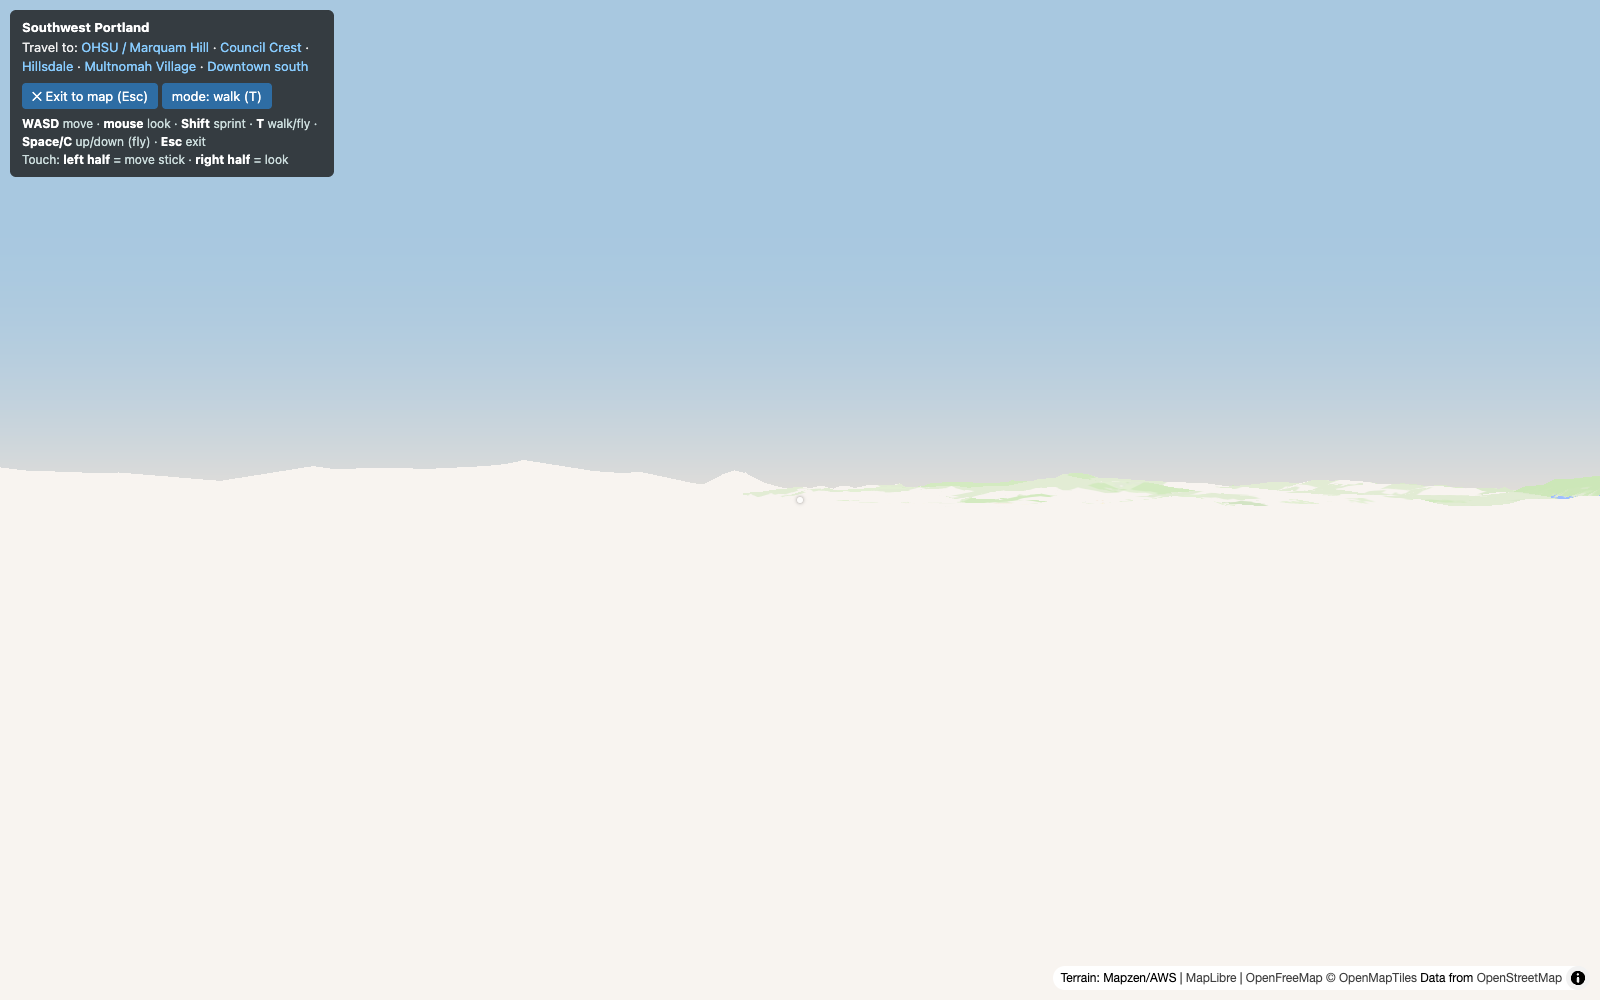
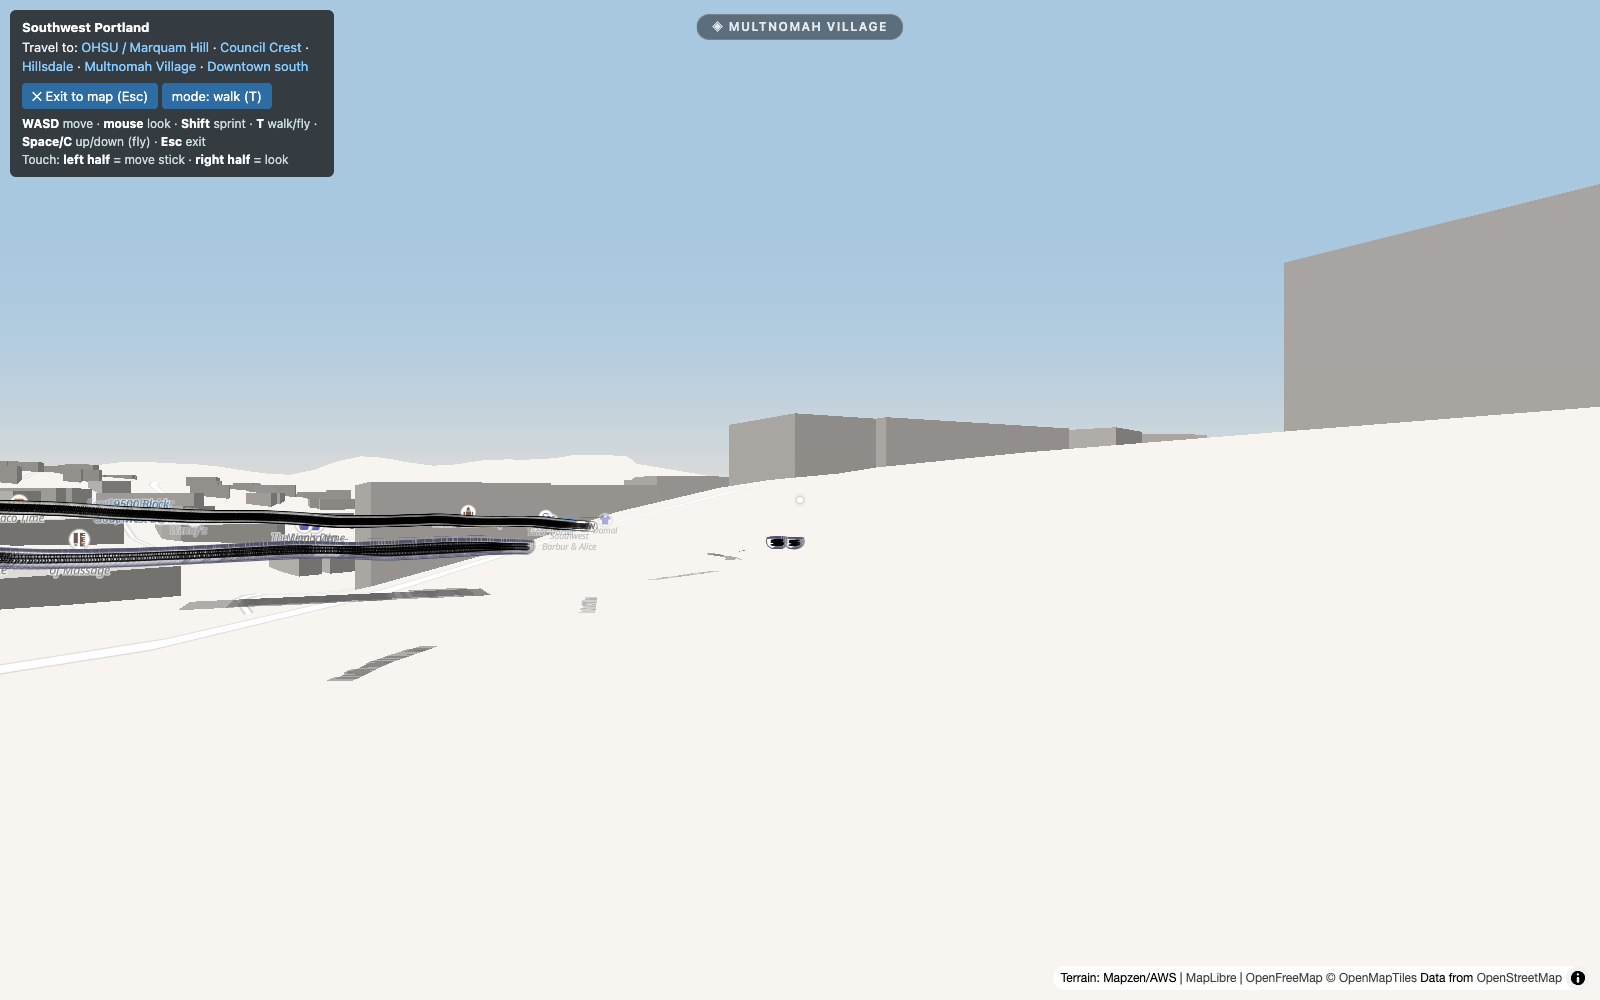
Game HUD: neighborhood zone toast + persistent chip
Pop a game-style 'Now entering Multnomah Village' toast and a persistent
top-center zone chip as the player crosses SW Portland neighborhoods
(11 hand-placed centroids, nearest-wins). Wired into spawn, fast-travel,
and per-frame border crossings. Verified headless (village->Multnomah
Village, OHSU->Marquam Hill render crisp; eye heights unchanged).

diff --git a/index.html b/index.html
@@ -31,11 +31,43 @@
       background: rgba(255,255,255,.7); box-shadow: 0 0 4px rgba(0,0,0,.6);
       pointer-events: none;
     }
+    /* persistent zone chip (current neighborhood) + transient arrival toast */
+    #zone-chip {
+      display: none; position: absolute; top: 14px; left: 50%; transform: translateX(-50%);
+      z-index: 3; padding: 5px 15px; border-radius: 14px;
+      background: rgba(15,18,22,.5); color: #e4ecf2;
+      font: 600 12px/1.2 -apple-system, system-ui, sans-serif; letter-spacing: .12em;
+      text-transform: uppercase; border: 1px solid rgba(255,255,255,.14);
+      -webkit-backdrop-filter: blur(7px); backdrop-filter: blur(7px);
+      pointer-events: none; white-space: nowrap;
+    }
+    #zone-toast {
+      display: none; position: absolute; top: 33%; left: 50%; transform: translateX(-50%);
+      z-index: 3; text-align: center; pointer-events: none;
+      text-shadow: 0 2px 16px rgba(0,0,0,.75);
+    }
+    #zone-toast .lead {
+      color: #b6c0c8; font: 600 12px/1 -apple-system, system-ui, sans-serif;
+      letter-spacing: .42em; text-transform: uppercase;
+    }
+    #zone-toast .name {
+      color: #fff; font: 200 46px/1.1 -apple-system, system-ui, sans-serif;
+      letter-spacing: .01em; margin-top: 10px;
+    }
+    #zone-toast.show { animation: zonepop 3.6s ease forwards; }
+    @keyframes zonepop {
+      0%   { opacity: 0; transform: translateX(-50%) translateY(12px); }
+      12%  { opacity: 1; transform: translateX(-50%) translateY(0); }
+      80%  { opacity: 1; transform: translateX(-50%) translateY(0); }
+      100% { opacity: 0; transform: translateX(-50%) translateY(-7px); }
+    }
   </style>
 </head>
 <body>
 <div id="map"></div>
 <div id="crosshair"></div>
+<div id="zone-chip"></div>
+<div id="zone-toast"><div class="lead">Now entering</div><div class="name"></div></div>
 <div id="hud">
   <b>Southwest Portland</b><br/>
   <span id="orbit-help">Map view — drag to pan · right-drag to tilt · scroll to zoom.<br/></span>
@@ -138,6 +170,7 @@
         // Fast-travel without leaving first person: drop onto the new spot.
         fp.lng = lng; fp.lat = lat; fp.heading = bearing; fp.look = -3;
         fp.alt = groundAt(lng, lat) + fp.eye;
+        updateZone(true);
       } else {
         map.flyTo({ center: [lng, lat], zoom, pitch, bearing, duration: 2500 });
       }
@@ -148,6 +181,7 @@
   const fp = {
     on: false, mode: 'walk',
     lng: 0, lat: 0, alt: 0,
+    region: null,      // current neighborhood name (for the zone toast/chip)
     heading: 0,        // compass deg, 0 = north
     look: 0,           // vertical look deg, 0 = horizon, + = up
     eye: 1.8,          // eye height above ground (m)
@@ -164,6 +198,54 @@
   function groundAt(lng, lat) {
     const e = map.queryTerrainElevation && map.queryTerrainElevation([lng, lat]);
     return e == null ? 0 : e;
+  }
+
+  // ---- SW Portland neighborhoods (hand-placed centroids) ----
+  // Nearest-centroid wins; beyond the cutoff you're just "Southwest Portland".
+  const NEIGHBORHOODS = [
+    { name: 'Council Crest',        lng: -122.7076, lat: 45.4983 },
+    { name: 'Marquam Hill',         lng: -122.6975, lat: 45.4995 },  // OHSU
+    { name: 'Marquam Nature Park',  lng: -122.6935, lat: 45.4880 },
+    { name: 'Healy Heights',        lng: -122.7165, lat: 45.4890 },
+    { name: 'Hillside',             lng: -122.7005, lat: 45.5120 },
+    { name: 'Hillsdale',            lng: -122.7095, lat: 45.4737 },
+    { name: 'Bridlemile',           lng: -122.7330, lat: 45.4900 },
+    { name: 'Homestead',            lng: -122.6885, lat: 45.4955 },
+    { name: 'Burlingame',           lng: -122.6960, lat: 45.4675 },
+    { name: 'Multnomah Village',    lng: -122.7126, lat: 45.4530 },
+    { name: 'South Burlingame',     lng: -122.6885, lat: 45.4590 },
+  ];
+  function regionAt(lng, lat) {
+    let best = null, bd = Infinity;
+    const cosL = Math.cos(lat * Math.PI / 180);
+    for (const n of NEIGHBORHOODS) {
+      const dx = (lng - n.lng) * cosL, dy = lat - n.lat;
+      const d = dx * dx + dy * dy;
+      if (d < bd) { bd = d; best = n; }
+    }
+    return Math.sqrt(bd) < 0.020 ? best.name : 'Southwest Portland';  // ~2.2 km cutoff
+  }
+
+  const zoneChip = document.getElementById('zone-chip');
+  const zoneToast = document.getElementById('zone-toast');
+  zoneToast.addEventListener('animationend', () => {
+    zoneToast.classList.remove('show'); zoneToast.style.display = 'none';
+  });
+  // Re-evaluate the current neighborhood; pop a toast + update the chip on change.
+  function updateZone(force) {
+    const z = regionAt(fp.lng, fp.lat);
+    if (z === fp.region && !force) return;
+    fp.region = z;
+    zoneChip.textContent = '◈ ' + z;
+    zoneChip.style.display = fp.on ? 'block' : 'none';
+    if (fp.on) showToast(z);
+  }
+  function showToast(name) {
+    zoneToast.querySelector('.name').textContent = name;
+    zoneToast.style.display = 'block';
+    zoneToast.classList.remove('show');
+    void zoneToast.offsetWidth;        // restart the animation
+    zoneToast.classList.add('show');
   }
 
   function fpEnter(lng, lat, heading, look, mode) {
@@ -188,6 +270,7 @@
     document.getElementById('fp-help').style.display = 'block';
     document.getElementById('orbit-help').style.display = 'none';
     document.getElementById('crosshair').style.display = 'block';
+    fp.region = null; updateZone(true);    // announce where you spawned
     requestAnimationFrame(fpFrame);
   }
 
@@ -202,6 +285,7 @@
     document.getElementById('fp-help').style.display = 'none';
     document.getElementById('orbit-help').style.display = '';
     document.getElementById('crosshair').style.display = 'none';
+    zoneChip.style.display = 'none';
     // settle into a sane orbit view of where you ended up
     map.jumpTo({ center: [fp.lng, fp.lat], zoom: 16.5, pitch: 60, bearing: fp.heading });
   }
@@ -260,6 +344,7 @@
       [fp.lng, fp.lat], fp.alt, [tLng, tLat], fp.alt + Math.sin(lookRad) * D
     );
     map.jumpTo(camOpts);
+    updateZone(false);   // pop a toast when we cross into a new neighborhood
     requestAnimationFrame(fpFrame);
   }
 
@@ -336,6 +421,7 @@
   window.__fpEnter = fpEnter;
   window.__fpExit = fpExit;
   window.__fp = fp;
+  window.__forceZone = () => updateZone(true);   // re-trigger toast/chip (for screenshots)
 </script>
 </body>
 </html>

diff --git a/test/shoot-fp.js b/test/shoot-fp.js
@@ -43,6 +43,12 @@ const VIEWS = [
     }));
     console.log(file, JSON.stringify(state));
     await page.screenshot({ path: OUT + file });
+
+    // Re-pop the zone toast on this fully-rendered scene and grab it (the toast
+    // fades after ~3.6s, so it's gone by the normal screenshot above).
+    await page.evaluate(() => window.__forceZone && window.__forceZone());
+    await new Promise(r => setTimeout(r, 600));
+    await page.screenshot({ path: OUT + file.replace('.png', '-toast.png') });
   }
   await browser.close();
 })().catch(e => { console.error(e.message); process.exit(1); });

diff --git a/NOTES.md b/NOTES.md
@@ -20,6 +20,18 @@ on crossing into Hillsdale / Multnomah Village / Marquam Nature Park, compass, s
 labels/POI fade at street level. The world should read as PLACE, not as map.
 
 ## Iteration log
+- **#3 (15:36–15:43)** Neighborhood zone HUD — the "this is a game" win. Hand-placed
+  11 SW Portland centroids (Council Crest, Marquam Hill/OHSU, Marquam Nature Park, Healy
+  Heights, Hillside, Hillsdale, Bridlemile, Homestead, Burlingame, Multnomah Village,
+  South Burlingame). `regionAt()` = nearest-centroid-wins with a ~2.2 km cutoff (falls
+  back to "Southwest Portland"). Two HUD pieces: a persistent top-center **zone chip**
+  ("◈ MULTNOMAH VILLAGE") and a big **arrival toast** ("Now entering Multnomah Village")
+  that pops + fades over 3.6 s on every zone crossing. Wired into fpEnter (spawn announce),
+  fast-travel clicks, and per-frame in fpFrame (pops when you walk across a border).
+  Gotcha: the toast fades before the harness's post-tile screenshot, so added a
+  `window.__forceZone()` hook + a `-toast.png` capture per view (re-pops the toast on the
+  fully-rendered scene). Verified: village→"Multnomah Village", OHSU→"Marquam Hill" both
+  render crisp; eye heights unchanged (village 215.14 / ground 213.34).
 - **#2 (15:26–15:35)** Boot straight into first person. Page now auto-enters FP on
   the Council Crest summit (Portland's high point) the moment the terrain DEM reports
   real elevation there (poll groundAt > 50 m, ~330 m summit); orbit/map is demoted to
@@ -45,24 +57,23 @@ labels/POI fade at street level. The world should read as PLACE, not as map.
   FOV 60° in FP, 36.87° (default) in orbit. Test hooks: `__fpEnter/__fpExit/__fp`.
 
 ## Next ideas (game-feel priority order)
-1. **Neighborhood toast HUD** — detect when the player crosses into Hillsdale /
-   Multnomah Village / Marquam Nature Park / Council Crest / OHSU etc. (point-in-polygon
-   against a small hand-drawn bbox/centroid list, or OSM place labels) and pop a
-   game-style "Entering Multnomah Village" toast. Cheapest big "this is a game" win.
-2. **Game-feel movement** — gravity + jump (Space in walk), acceleration/momentum
+1. **Atmosphere** — real sun position + sky gradient + distance fog tuned to SW Portland's
+   forested hills; draw-distance haze so far ridges recede. Sky is a flat pale wash now —
+   the single most "map, not game" thing left in the renders. High screenshot payoff.
+2. **Labels fade at street level** — POI/road/place symbol text should fade out as the FP
+   camera drops to eye level (opacity ramp on pitch/zoom) so the world reads as place, not
+   map. Bonus: kills the `_mult` symbol-render spam. (Note: zone chip now carries the
+   "where am I" load, so map labels are safe to drop in FP.)
+3. **Game-feel movement** — gravity + jump (Space in walk), acceleration/momentum
    instead of instant velocity, subtle head bob while walking. Currently movement is
    instant-on/off and dead-flat — reads robotic.
-3. **Labels fade at street level** — POI/road/place symbol text should fade out as the
-   FP camera drops to eye level (opacity ramp on zoom/pitch) so the world reads as place,
-   not map. Bonus: kills the `_mult` symbol-render spam.
-4. **Atmosphere** — real sun position + sky gradient + distance fog tuned to SW Portland's
-   forested hills; draw-distance haze so far ridges recede. Sky is currently a flat pale wash.
-5. **Ground texture at eye level** — the liberty style is a featureless beige wash at
+4. **Ground texture at eye level** — the liberty style is a featureless beige wash at
    street level (see barren village/fly shots). Drape Esri World Imagery raster under the
    buildings in FP, OR lean into a stylized game look (textured ground material, grid).
-6. **Trees / forest** — SW Portland is forest-heavy (Marquam, Tryon Creek, Council Crest).
+5. **Trees / forest** — SW Portland is forest-heavy (Marquam, Tryon Creek, Council Crest).
    OSM park/landcover polygons → extruded canopy blobs or billboarded trees.
-7. **Compass + speed readout HUD** — heading ribbon at top, speed number in fly mode.
-8. **FP collision with buildings** — queryRenderedFeatures ahead before moving so you
+6. **Compass + speed readout HUD** — heading ribbon at top, speed number in fly mode.
+   (Pairs naturally with the new zone chip — same top strip.)
+7. **FP collision with buildings** — queryRenderedFeatures ahead before moving so you
    can't walk through walls (physicality = game-feel).
-9. Mobile: visible joystick widget, fullscreen button, deviceorientation look.
+8. Mobile: visible joystick widget, fullscreen button, deviceorientation look.